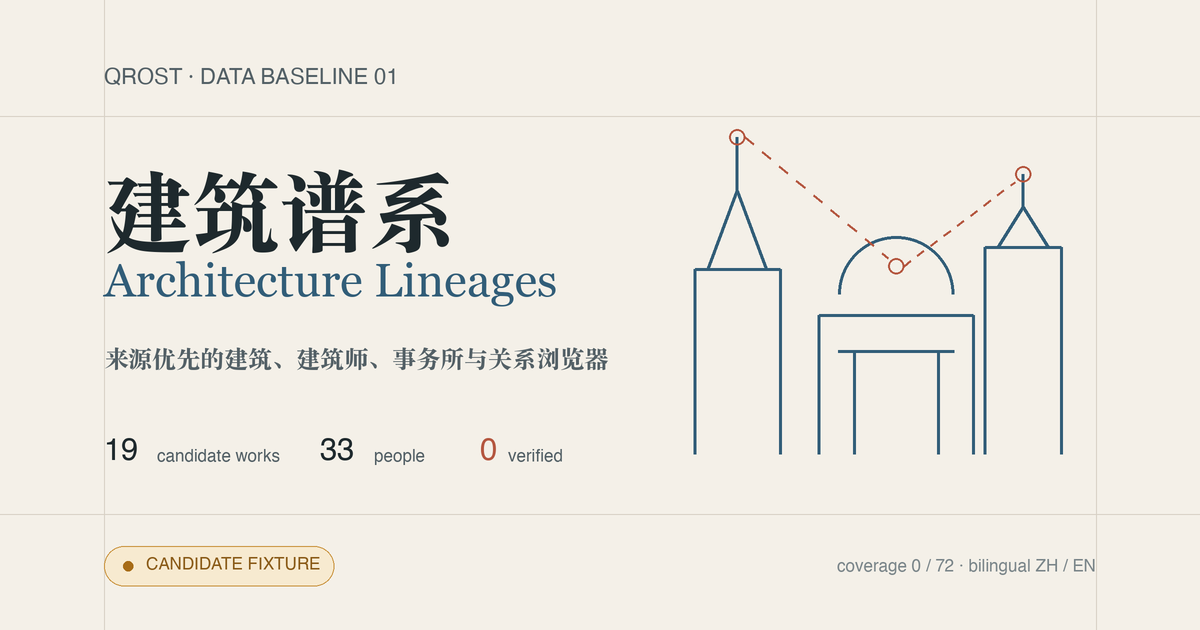
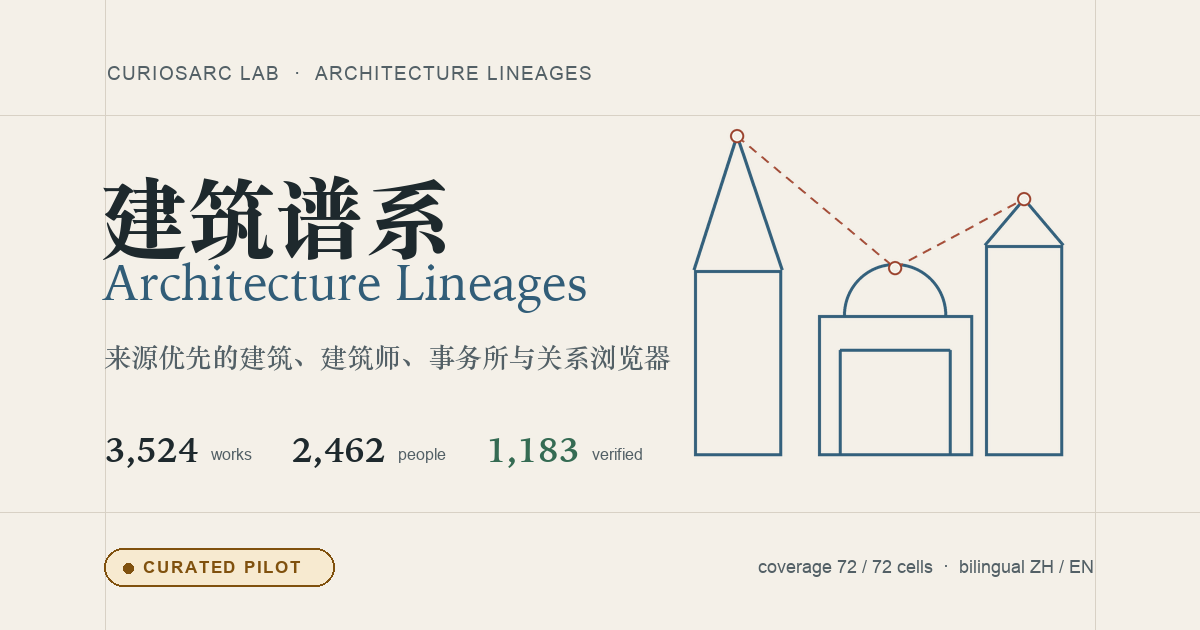
fix(arch-history): draw the share card from the manifest and guard it against staleness
The 1200x630 share card was drawn once by hand in August and still announced 19 works, 0 verified, coverage 0/72 and the retired QROST brand behind a CANDIDATE FIXTURE badge. tools/build_og_card.py now renders it from the published manifest in the page's own palette and typefaces, and stores what it drew in PNG tEXt chunks. test_page_contract.py compares the stored counts with the manifest, so a stale card fails the gate instead of quietly announcing last month's numbers.

No data change in this push: the Chinese-name seed round concluded as a structural gap (of 1,610 people without a Chinese name, none has a zh-wiki article through the enwiki langlink, and only one carries any zh-variant label on Wikidata), so there was nothing to publish on the data side.

diff --git a/demos/architecture-history/tools/build_og_card.py b/demos/architecture-history/tools/build_og_card.py
@@ -1,0 +1,214 @@
+#!/usr/bin/env python3
+"""Render the 1200 x 630 share card from the published manifest.
+
+The card used to be drawn once by hand, so its figures went stale with every
+publish (it still announced 19 works and 0 verified in November 2026). This
+script reads ``assets/data/manifest.json``, draws the card, and stores the
+figures it drew in a ``counts`` tEXt chunk, so ``test_page_contract.py`` fails
+when the card no longer matches the manifest.
+
+Run it after ``db.py export`` whenever the manifest counts change, and commit
+the PNG together with the data:
+
+    python3 tools/build_og_card.py
+
+Font paths default to the macOS system fonts named by the page's font stack;
+pass --cjk / --serif / --sans to render the same card elsewhere.
+"""
+
+from __future__ import annotations
+
+import argparse
+import json
+from pathlib import Path
+
+from PIL import Image, ImageDraw, ImageFont
+from PIL.PngImagePlugin import PngInfo
+
+ROOT = Path(__file__).resolve().parent.parent
+MANIFEST = ROOT / "assets" / "data" / "manifest.json"
+CONFIG = ROOT / "assets" / "data" / "methodology" / "wikidata-coverage-config.json"
+OUTPUT = ROOT / "assets" / "img" / "architecture-history-og.png"
+
+WIDTH, HEIGHT = 1200, 630
+SUPERSAMPLE = 4  # the line art is drawn at 4x and reduced, for smooth strokes
+
+# Palette and type follow assets/css/architecture-history.css (:root).
+PAPER = (244, 240, 232)
+LINE = (216, 209, 197)
+INK = (30, 41, 45)
+INK_SOFT = (83, 96, 102)
+COBALT = (49, 93, 120)
+TERRACOTTA = (153, 70, 50)
+GREEN = (53, 107, 83)
+AMBER = (128, 81, 14)
+AMBER_SOFT = (247, 234, 208)
+
+DEFAULT_CJK = "/System/Library/Fonts/Supplemental/Songti.ttc"
+DEFAULT_SERIF = "/System/Library/Fonts/Supplemental/Iowan Old Style.ttc"
+DEFAULT_SANS = "/System/Library/Fonts/Supplemental/Arial.ttf"
+DEFAULT_SANS_BOLD = "/System/Library/Fonts/Supplemental/Arial Bold.ttf"
+
+
+def font(path: str, size: int, index: int = 0) -> ImageFont.FreeTypeFont:
+    return ImageFont.truetype(path, size, index=index)
+
+
+def tracked(
+    draw: ImageDraw.ImageDraw,
+    xy: tuple[int, int],
+    text: str,
+    face: ImageFont.FreeTypeFont,
+    fill: tuple[int, int, int],
+    tracking: float,
+) -> None:
+    """Draw letter-spaced text; Pillow has no tracking of its own."""
+    x, y = xy
+    for character in text:
+        draw.text((x, y), character, font=face, fill=fill, anchor="ls")
+        x += draw.textlength(character, font=face) + tracking
+
+
+def dashed_line(
+    draw: ImageDraw.ImageDraw,
+    start: tuple[float, float],
+    end: tuple[float, float],
+    fill: tuple[int, int, int],
+    width: int,
+    dash: float,
+    gap: float,
+) -> None:
+    x0, y0 = start
+    x1, y1 = end
+    length = ((x1 - x0) ** 2 + (y1 - y0) ** 2) ** 0.5
+    step = 0.0
+    while step < length:
+        stop = min(step + dash, length)
+        draw.line(
+            (
+                (x0 + (x1 - x0) * step / length, y0 + (y1 - y0) * step / length),
+                (x0 + (x1 - x0) * stop / length, y0 + (y1 - y0) * stop / length),
+            ),
+            fill=fill,
+            width=width,
+        )
+        step += dash + gap
+
+
+def line_art() -> Image.Image:
+    """Three line-drawn buildings with a dashed roofline, as on the first card."""
+    scale = SUPERSAMPLE
+    layer = Image.new("RGBA", (WIDTH * scale, HEIGHT * scale), (0, 0, 0, 0))
+    draw = ImageDraw.Draw(layer)
+
+    def box(x0: float, y0: float, x1: float, y1: float) -> None:
+        draw.rectangle((x0 * scale, y0 * scale, x1 * scale, y1 * scale),
+                       outline=COBALT + (255,), width=3 * scale)
+
+    def line(points: list[tuple[float, float]], colour=COBALT, width: float = 3) -> None:
+        draw.line([(x * scale, y * scale) for x, y in points],
+                  fill=colour + (255,), width=int(width * scale), joint="curve")
+
+    ground = 456.0
+    box(694, 270, 782, ground)  # left tower
+    line([(694, 270), (737, 136), (782, 270)])  # its spire
+    box(818, 315, 973, ground)  # central hall
+    draw.arc(((895 - 52) * scale, (315 - 52) * scale, (895 + 52) * scale, (315 + 52) * scale),
+             start=180, end=360, fill=COBALT + (255,), width=3 * scale)  # its dome
+    line([(840, 350), (840, ground)])  # the doorway
+    line([(950, 350), (950, ground)])
+    line([(840, 350), (950, 350)])
+    box(985, 245, 1063, ground)  # right tower
+    line([(985, 245), (1024, 199), (1063, 245)])  # its roof
+
+    # The dashed roofline ties the three spires together.
+    dashed_line(draw, (737 * scale, 136 * scale), (895 * scale, 268 * scale),
+                TERRACOTTA + (255,), 2 * scale, 9 * scale, 7 * scale)
+    dashed_line(draw, (895 * scale, 268 * scale), (1024 * scale, 199 * scale),
+                TERRACOTTA + (255,), 2 * scale, 9 * scale, 7 * scale)
+    for cx, cy in ((737, 136), (895, 268), (1024, 199)):
+        radius = 7 * scale
+        draw.ellipse(((cx * scale - radius), (cy * scale - radius),
+                      (cx * scale + radius), (cy * scale + radius)),
+                     fill=PAPER + (255,), outline=TERRACOTTA + (255,), width=2 * scale)
+
+    return layer.resize((WIDTH, HEIGHT), Image.LANCZOS)
+
+
+def render(counts: dict, cells_run: int, cells_total: int, data_version: str,
+           cjk: str, serif: str, sans: str, sans_bold: str) -> Image.Image:
+    card = Image.new("RGBA", (WIDTH, HEIGHT), PAPER + (255,))
+    draw = ImageDraw.Draw(card)
+
+    for x in (105, 1095):  # the page's hairline frame
+        draw.line(((x, 0), (x, HEIGHT)), fill=LINE, width=1)
+    for y in (115, 512):
+        draw.line(((0, y), (WIDTH, y)), fill=LINE, width=1)
+
+    tracked(draw, (107, 80), "CURIOSARC LAB  ·  ARCHITECTURE LINEAGES",
+            font(sans, 19), INK_SOFT, 1.4)
+    draw.text((100, 250), "建筑谱系", font=font(cjk, 88, index=0), fill=INK, anchor="ls")
+    draw.text((103, 300), "Architecture Lineages", font=font(serif, 50), fill=COBALT, anchor="ls")
+    draw.text((104, 366), "来源优先的建筑、建筑师、事务所与关系浏览器",
+              font=font(cjk, 27, index=1), fill=INK_SOFT, anchor="ls")
+
+    metrics = (
+        (f"{counts['works']:,}", "works", INK),
+        (f"{counts['people']:,}", "people", INK),
+        (f"{counts['verified_entities_and_relations']:,}", "verified", GREEN),
+    )
+    figure_face = font(serif, 35, index=1)
+    label_face = font(sans, 16)
+    x = 105.0
+    for figure, label, colour in metrics:
+        draw.text((x, 462), figure, font=figure_face, fill=colour, anchor="ls")
+        x += draw.textlength(figure, font=figure_face) + 12
+        draw.text((x, 460), label, font=label_face, fill=INK_SOFT, anchor="ls")
+        x += draw.textlength(label, font=label_face) + 40
+    if x - 40 > 670:
+        raise SystemExit(f"metrics row ends at x={x - 40:.0f} and would run into the line art")
+
+    draw.rounded_rectangle(((104, 548), (334, 586)), radius=19,
+                           fill=AMBER_SOFT, outline=AMBER, width=2)
+    draw.ellipse(((123, 563), (133, 573)), fill=AMBER)
+    tracked(draw, (143, 573), "CURATED PILOT", font(sans_bold, 17), AMBER, 1.6)
+
+    footer = f"coverage {cells_run} / {cells_total} cells  ·  bilingual ZH / EN"
+    draw.text((1094 - draw.textlength(footer, font=font(sans, 18)), 573), footer,
+              font=font(sans, 18), fill=INK_SOFT, anchor="ls")
+
+    return Image.alpha_composite(card, line_art()).convert("RGB")
+
+
+def main() -> int:
+    parser = argparse.ArgumentParser(description=__doc__)
+    parser.add_argument("--cjk", default=DEFAULT_CJK)
+    parser.add_argument("--serif", default=DEFAULT_SERIF)
+    parser.add_argument("--sans", default=DEFAULT_SANS)
+    parser.add_argument("--sans-bold", default=DEFAULT_SANS_BOLD)
+    args = parser.parse_args()
+
+    manifest = json.loads(MANIFEST.read_text(encoding="utf-8"))
+    grid = json.loads(CONFIG.read_text(encoding="utf-8"))["coverage_grid"]
+    counts = manifest["counts"]
+    cells_total = grid["cell_count"]
+    cells_run = len(manifest["coverage"]["cells"])
+    data_version = manifest["data_version"]
+
+    image = render(counts, cells_run, cells_total, data_version,
+                   args.cjk, args.serif, args.sans, args.sans_bold)
+    metadata = PngInfo()
+    metadata.add_text("counts", json.dumps(counts, sort_keys=True))
+    metadata.add_text("cells", json.dumps({"run": cells_run, "total": cells_total}))
+    metadata.add_text("data_version", data_version)
+    OUTPUT.parent.mkdir(parents=True, exist_ok=True)
+    image.save(OUTPUT, format="PNG", optimize=True, pnginfo=metadata)
+    print(f"Wrote {OUTPUT.relative_to(ROOT)}: "
+          f"{counts['works']:,} works, {counts['people']:,} people, "
+          f"{counts['verified_entities_and_relations']:,} verified, "
+          f"coverage {cells_run}/{cells_total}")
+    return 0
+
+
+if __name__ == "__main__":
+    raise SystemExit(main())

diff --git a/demos/architecture-history/tools/test_page_contract.py b/demos/architecture-history/tools/test_page_contract.py
@@ -410,6 +410,43 @@ class PageContractTests(unittest.TestCase):
         self.assertEqual((width, height), (1200, 630))
         self.assertIn("architecture-history-og.png", self.html)
 
+        # The figures are drawn into the image, so the card goes stale with
+        # every publish unless it is rendered again. tools/build_og_card.py
+        # stores what it drew; it must equal what the manifest publishes.
+        metadata = self.png_text_chunks(payload)
+        manifest = json.loads(
+            (ROOT / "assets" / "data" / "manifest.json").read_text(encoding="utf-8")
+        )
+        grid = json.loads(
+            (
+                ROOT
+                / "assets"
+                / "data"
+                / "methodology"
+                / "wikidata-coverage-config.json"
+            ).read_text(encoding="utf-8")
+        )["coverage_grid"]
+        self.assertIn("counts", metadata)
+        self.assertEqual(json.loads(metadata["counts"]), manifest["counts"])
+        self.assertEqual(
+            json.loads(metadata["cells"]),
+            {"run": len(manifest["coverage"]["cells"]), "total": grid["cell_count"]},
+        )
+
+    @staticmethod
+    def png_text_chunks(payload: bytes) -> dict[str, str]:
+        """Return the tEXt chunks of a PNG as key -> value."""
+        chunks: dict[str, str] = {}
+        offset = 8
+        while offset < len(payload):
+            length, kind = struct.unpack(">I4s", payload[offset:offset + 8])
+            body = payload[offset + 8:offset + 8 + length]
+            if kind == b"tEXt":
+                key, value = body.split(b"\x00", 1)
+                chunks[key.decode("latin-1")] = value.decode("latin-1")
+            offset += 12 + length
+        return chunks
+
     def test_site_header_matches_qrost_research_shell(self) -> None:
         self.assertRegex(
             self.html,

diff --git a/demos/architecture-history/README.md b/demos/architecture-history/README.md
@@ -168,6 +168,13 @@ closed on provenance or verification errors. Generated public arrays are merged
 from source-scoped `assets/data/catalog/*.json` shards; failed builds restore all
 generated outputs instead of leaving a half-written tree.
 
+The 1200 × 630 share card (`assets/img/architecture-history-og.png`) is drawn
+from the published manifest by `python3 tools/build_og_card.py`. Re-run it after
+any publish that changes the counts: the figures are baked into the image, and
+`tools/test_page_contract.py` compares the counts stored in the PNG against the
+manifest, so a stale card fails the gate instead of quietly announcing last
+month's numbers.
+
 Before committing or publishing a data update, also run the
 [required root publication gate](tools/README.md#required-root-publication-gate)
 to regenerate the repository homepage summaries, run the root checks, and commit
